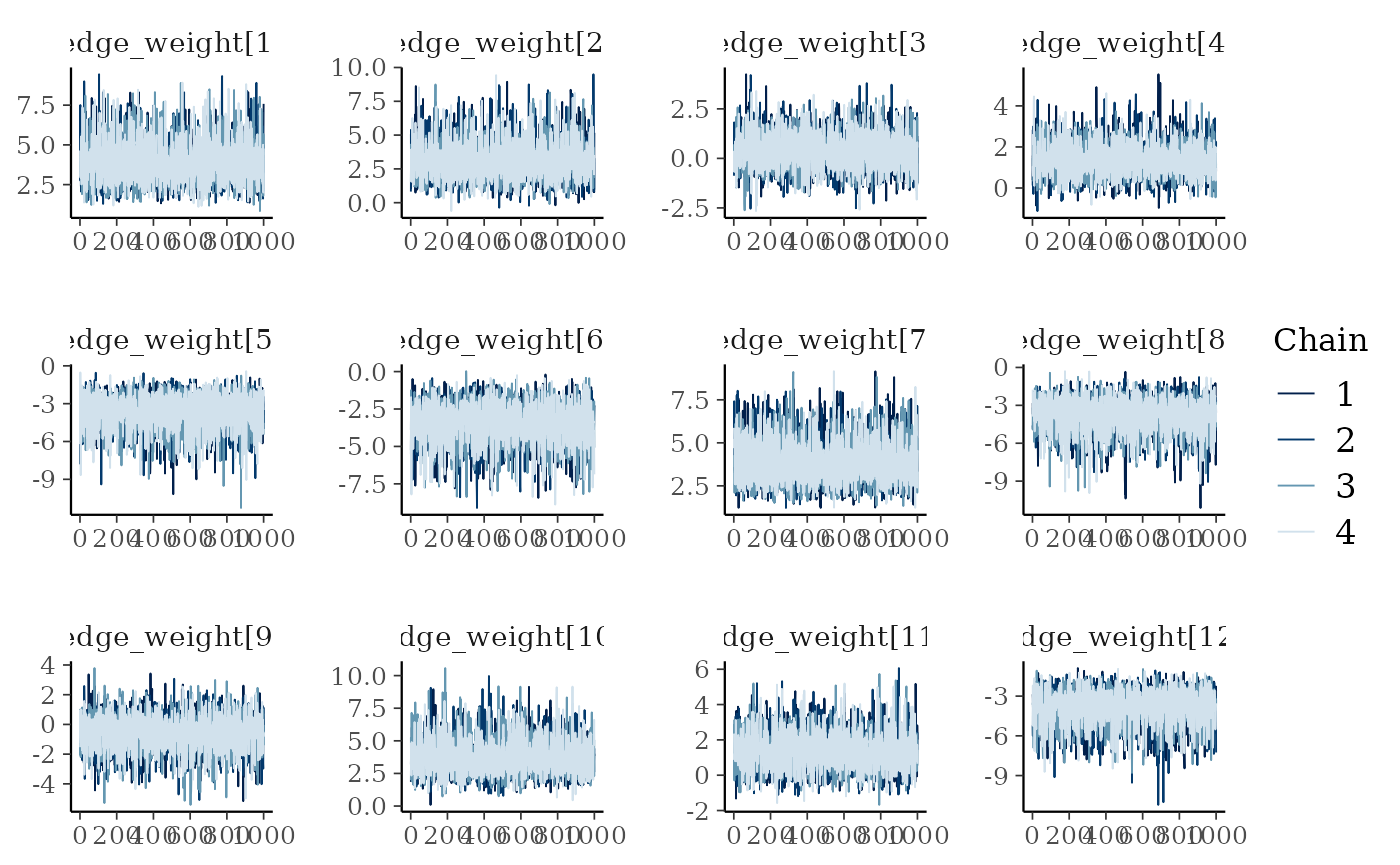
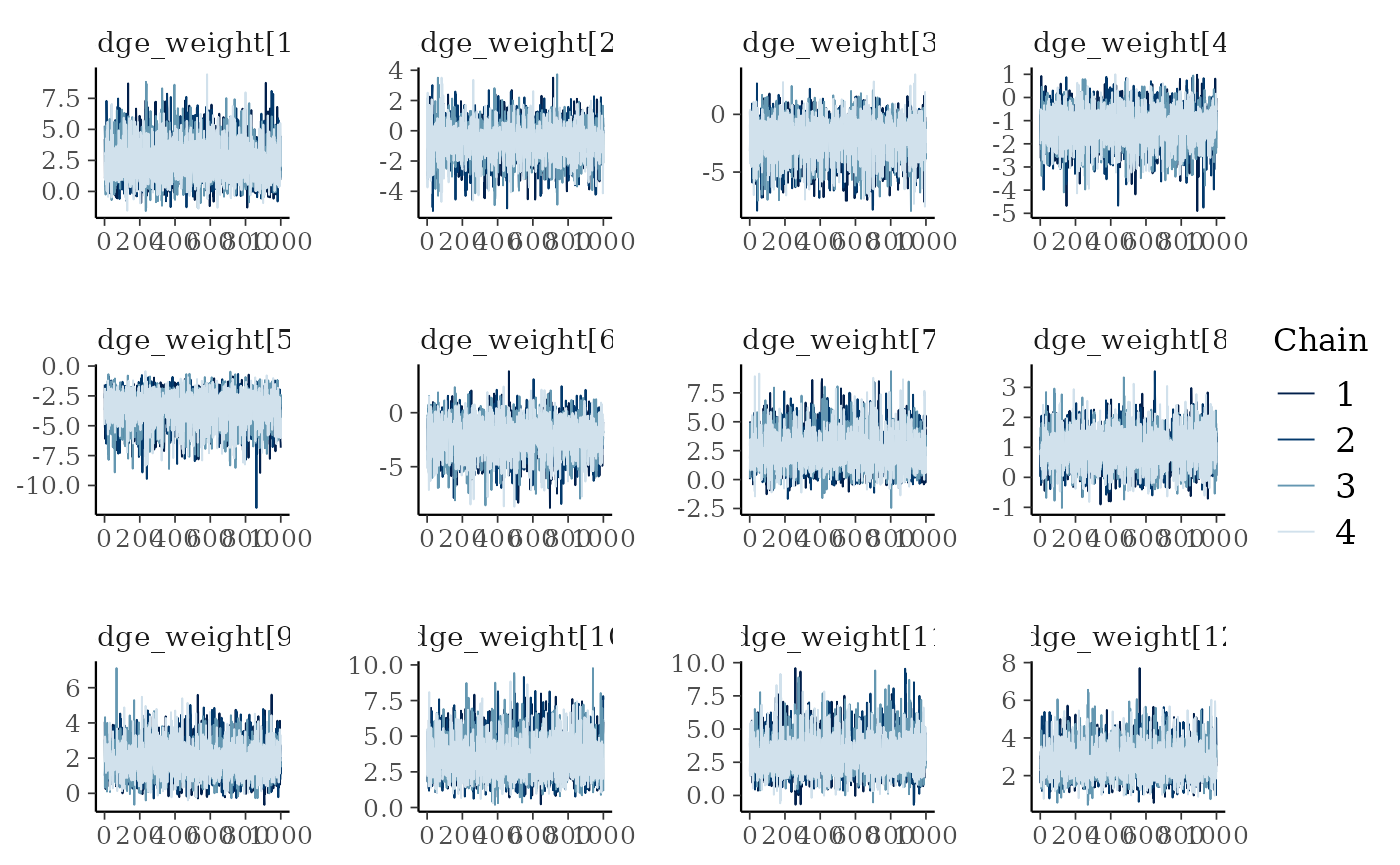
Built site for bisonR: 0.1.0@e6f2552

diff --git a/articles/getting_started.html b/articles/getting_started.html
@@ -113,13 +113,13 @@
 <code class="sourceCode R"><span class="va">sim_data</span> <span class="op">&lt;-</span> <span class="fu"><a href="../reference/simulate_edge_model.html">simulate_edge_model</a></span><span class="op">(</span><span class="st">"binary"</span>, aggregated <span class="op">=</span> <span class="cn">FALSE</span><span class="op">)</span>
 <span class="va">df</span> <span class="op">&lt;-</span> <span class="va">sim_data</span><span class="op">$</span><span class="va">df_sim</span>
 <span class="fu"><a href="https://rdrr.io/r/utils/head.html" class="external-link">head</a></span><span class="op">(</span><span class="va">df</span><span class="op">)</span>
-<span class="co">#&gt;   event node_1_id node_2_id age_diff    age_1    age_2 location duration</span>
-<span class="co">#&gt; 1     1         1         2 12.75199 25.92077 13.16878        5        1</span>
-<span class="co">#&gt; 2     1         1         2 12.75199 25.92077 13.16878        5        1</span>
-<span class="co">#&gt; 3     1         1         2 12.75199 25.92077 13.16878        3        1</span>
-<span class="co">#&gt; 4     1         1         2 12.75199 25.92077 13.16878        1        1</span>
-<span class="co">#&gt; 5     1         1         2 12.75199 25.92077 13.16878        4        1</span>
-<span class="co">#&gt; 6     1         1         2 12.75199 25.92077 13.16878        1        1</span></code></pre></div>
+<span class="co">#&gt;   event node_1_id node_2_id   age_diff    age_1    age_2 location duration</span>
+<span class="co">#&gt; 1     1         1         2  2.9306721 24.61434 21.68366        1        1</span>
+<span class="co">#&gt; 2     1         1         2  2.9306721 24.61434 21.68366        3        1</span>
+<span class="co">#&gt; 3     1         1         2  2.9306721 24.61434 21.68366        3        1</span>
+<span class="co">#&gt; 4     0         1         3 -0.1692581 24.61434 24.78359        3        1</span>
+<span class="co">#&gt; 5     0         1         3 -0.1692581 24.61434 24.78359        5        1</span>
+<span class="co">#&gt; 6     1         1         3 -0.1692581 24.61434 24.78359        3        1</span></code></pre></div>
 </div>
 <div class="section level2">
 <h2 id="edge-models">Edge Models<a class="anchor" aria-label="anchor" href="#edge-models"></a>
@@ -188,14 +188,14 @@
 <span class="co">#&gt; </span>
 <span class="co">#&gt; Running MCMC with 4 parallel chains...</span>
 <span class="co">#&gt; </span>
-<span class="co">#&gt; Chain 1 finished in 3.5 seconds.</span>
-<span class="co">#&gt; Chain 2 finished in 3.6 seconds.</span>
-<span class="co">#&gt; Chain 4 finished in 3.5 seconds.</span>
-<span class="co">#&gt; Chain 3 finished in 3.6 seconds.</span>
+<span class="co">#&gt; Chain 1 finished in 2.4 seconds.</span>
+<span class="co">#&gt; Chain 2 finished in 2.4 seconds.</span>
+<span class="co">#&gt; Chain 3 finished in 2.6 seconds.</span>
+<span class="co">#&gt; Chain 4 finished in 2.5 seconds.</span>
 <span class="co">#&gt; </span>
 <span class="co">#&gt; All 4 chains finished successfully.</span>
-<span class="co">#&gt; Mean chain execution time: 3.6 seconds.</span>
-<span class="co">#&gt; Total execution time: 3.8 seconds.</span></code></pre></div>
+<span class="co">#&gt; Mean chain execution time: 2.5 seconds.</span>
+<span class="co">#&gt; Total execution time: 2.7 seconds.</span></code></pre></div>
 <p>Depending on your dataset this can take anywhere between a few tenths of a second and several hours. In particular if you have a large dataset and no observation-level predictors, it’s probably a good idea to use the aggregated version of the model where all observations per dyad are collapsed to a single row. This will speed up model fitting considerably.</p>
 <p>Once the model has fitted, we need to check that the MCMC algorithm has behaved correctly. Usually if there’s a major problem, the <code><a href="../reference/edge_model.html">edge_model()</a></code> function itself will have triggered warning messages above. But even if everything is silent, it’s still worth checking the traceplots to check the MCMC chains have converged. The chains should be well-mixed and look something like a fuzzy caterpillar. We can check for this using the <code><a href="../reference/plot_trace.html">plot_trace()</a></code> function:</p>
 <div class="sourceCode" id="cb7"><pre class="downlit sourceCode r">
@@ -216,51 +216,51 @@
 <span class="co">#&gt; Directed: FALSE</span>
 <span class="co">#&gt; === Edge list summary ===</span>
 <span class="co">#&gt;          median    5%   95%</span>
-<span class="co">#&gt; 1 &lt;-&gt; 2   0.978 0.890 0.998</span>
-<span class="co">#&gt; 1 &lt;-&gt; 3   0.955 0.758 0.997</span>
-<span class="co">#&gt; 2 &lt;-&gt; 3   0.592 0.268 0.869</span>
-<span class="co">#&gt; 1 &lt;-&gt; 4   0.792 0.550 0.940</span>
-<span class="co">#&gt; 2 &lt;-&gt; 4   0.026 0.002 0.141</span>
-<span class="co">#&gt; 3 &lt;-&gt; 4   0.033 0.003 0.179</span>
-<span class="co">#&gt; 1 &lt;-&gt; 5   0.980 0.899 0.998</span>
-<span class="co">#&gt; 2 &lt;-&gt; 5   0.024 0.002 0.128</span>
-<span class="co">#&gt; 3 &lt;-&gt; 5   0.347 0.071 0.772</span>
-<span class="co">#&gt; 4 &lt;-&gt; 5   0.976 0.868 0.998</span>
-<span class="co">#&gt; 1 &lt;-&gt; 6   0.788 0.431 0.962</span>
-<span class="co">#&gt; 2 &lt;-&gt; 6   0.025 0.002 0.117</span>
-<span class="co">#&gt; 3 &lt;-&gt; 6   0.021 0.002 0.101</span>
-<span class="co">#&gt; 4 &lt;-&gt; 6   0.887 0.426 0.994</span>
-<span class="co">#&gt; 5 &lt;-&gt; 6   0.171 0.007 0.774</span>
-<span class="co">#&gt; 1 &lt;-&gt; 7   0.920 0.755 0.985</span>
-<span class="co">#&gt; 2 &lt;-&gt; 7   0.031 0.002 0.171</span>
-<span class="co">#&gt; 3 &lt;-&gt; 7   0.027 0.002 0.138</span>
-<span class="co">#&gt; 4 &lt;-&gt; 7   0.813 0.211 0.992</span>
-<span class="co">#&gt; 5 &lt;-&gt; 7   0.173 0.007 0.795</span>
-<span class="co">#&gt; 6 &lt;-&gt; 7   0.906 0.722 0.984</span>
-<span class="co">#&gt; 1 &lt;-&gt; 8   0.878 0.716 0.965</span>
-<span class="co">#&gt; 2 &lt;-&gt; 8   0.024 0.002 0.131</span>
-<span class="co">#&gt; 3 &lt;-&gt; 8   0.057 0.003 0.317</span>
-<span class="co">#&gt; 4 &lt;-&gt; 8   0.851 0.660 0.958</span>
-<span class="co">#&gt; 5 &lt;-&gt; 8   0.035 0.002 0.177</span>
-<span class="co">#&gt; 6 &lt;-&gt; 8   0.283 0.126 0.492</span>
-<span class="co">#&gt; 7 &lt;-&gt; 8   0.066 0.003 0.380</span>
-<span class="co">#&gt; 1 &lt;-&gt; 9   0.940 0.820 0.989</span>
-<span class="co">#&gt; 2 &lt;-&gt; 9   0.180 0.008 0.766</span>
-<span class="co">#&gt; 3 &lt;-&gt; 9   0.023 0.002 0.118</span>
-<span class="co">#&gt; 4 &lt;-&gt; 9   0.941 0.685 0.996</span>
-<span class="co">#&gt; 5 &lt;-&gt; 9   0.428 0.168 0.721</span>
-<span class="co">#&gt; 6 &lt;-&gt; 9   0.951 0.732 0.997</span>
-<span class="co">#&gt; 7 &lt;-&gt; 9   0.498 0.228 0.778</span>
-<span class="co">#&gt; 8 &lt;-&gt; 9   0.491 0.095 0.911</span>
-<span class="co">#&gt; 1 &lt;-&gt; 10  0.977 0.888 0.998</span>
-<span class="co">#&gt; 2 &lt;-&gt; 10  0.029 0.002 0.141</span>
-<span class="co">#&gt; 3 &lt;-&gt; 10  0.020 0.002 0.102</span>
-<span class="co">#&gt; 4 &lt;-&gt; 10  0.956 0.761 0.997</span>
-<span class="co">#&gt; 5 &lt;-&gt; 10  0.115 0.033 0.273</span>
-<span class="co">#&gt; 6 &lt;-&gt; 10  0.915 0.549 0.995</span>
-<span class="co">#&gt; 7 &lt;-&gt; 10  0.455 0.227 0.689</span>
-<span class="co">#&gt; 8 &lt;-&gt; 10  0.736 0.359 0.952</span>
-<span class="co">#&gt; 9 &lt;-&gt; 10  0.250 0.091 0.477</span></code></pre></div>
+<span class="co">#&gt; 1 &lt;-&gt; 2   0.918 0.550 0.996</span>
+<span class="co">#&gt; 1 &lt;-&gt; 3   0.347 0.061 0.766</span>
+<span class="co">#&gt; 2 &lt;-&gt; 3   0.111 0.005 0.592</span>
+<span class="co">#&gt; 1 &lt;-&gt; 4   0.228 0.065 0.485</span>
+<span class="co">#&gt; 2 &lt;-&gt; 4   0.029 0.002 0.158</span>
+<span class="co">#&gt; 3 &lt;-&gt; 4   0.108 0.005 0.572</span>
+<span class="co">#&gt; 1 &lt;-&gt; 5   0.919 0.546 0.996</span>
+<span class="co">#&gt; 2 &lt;-&gt; 5   0.710 0.502 0.876</span>
+<span class="co">#&gt; 3 &lt;-&gt; 5   0.863 0.618 0.975</span>
+<span class="co">#&gt; 4 &lt;-&gt; 5   0.968 0.834 0.998</span>
+<span class="co">#&gt; 1 &lt;-&gt; 6   0.956 0.760 0.997</span>
+<span class="co">#&gt; 2 &lt;-&gt; 6   0.939 0.821 0.988</span>
+<span class="co">#&gt; 3 &lt;-&gt; 6   0.969 0.841 0.998</span>
+<span class="co">#&gt; 4 &lt;-&gt; 6   0.948 0.724 0.996</span>
+<span class="co">#&gt; 5 &lt;-&gt; 6   0.966 0.821 0.997</span>
+<span class="co">#&gt; 1 &lt;-&gt; 7   0.940 0.688 0.996</span>
+<span class="co">#&gt; 2 &lt;-&gt; 7   0.955 0.765 0.997</span>
+<span class="co">#&gt; 3 &lt;-&gt; 7   0.971 0.859 0.998</span>
+<span class="co">#&gt; 4 &lt;-&gt; 7   0.975 0.859 0.998</span>
+<span class="co">#&gt; 5 &lt;-&gt; 7   0.895 0.759 0.970</span>
+<span class="co">#&gt; 6 &lt;-&gt; 7   0.179 0.007 0.784</span>
+<span class="co">#&gt; 1 &lt;-&gt; 8   0.970 0.842 0.998</span>
+<span class="co">#&gt; 2 &lt;-&gt; 8   0.382 0.190 0.604</span>
+<span class="co">#&gt; 3 &lt;-&gt; 8   0.819 0.214 0.992</span>
+<span class="co">#&gt; 4 &lt;-&gt; 8   0.452 0.281 0.632</span>
+<span class="co">#&gt; 5 &lt;-&gt; 8   0.158 0.032 0.424</span>
+<span class="co">#&gt; 6 &lt;-&gt; 8   0.022 0.002 0.110</span>
+<span class="co">#&gt; 7 &lt;-&gt; 8   0.499 0.090 0.906</span>
+<span class="co">#&gt; 1 &lt;-&gt; 9   0.971 0.838 0.998</span>
+<span class="co">#&gt; 2 &lt;-&gt; 9   0.369 0.207 0.560</span>
+<span class="co">#&gt; 3 &lt;-&gt; 9   0.954 0.761 0.997</span>
+<span class="co">#&gt; 4 &lt;-&gt; 9   0.954 0.756 0.997</span>
+<span class="co">#&gt; 5 &lt;-&gt; 9   0.613 0.388 0.811</span>
+<span class="co">#&gt; 6 &lt;-&gt; 9   0.022 0.002 0.121</span>
+<span class="co">#&gt; 7 &lt;-&gt; 9   0.618 0.343 0.847</span>
+<span class="co">#&gt; 8 &lt;-&gt; 9   0.661 0.339 0.898</span>
+<span class="co">#&gt; 1 &lt;-&gt; 10  0.971 0.855 0.998</span>
+<span class="co">#&gt; 2 &lt;-&gt; 10  0.025 0.002 0.129</span>
+<span class="co">#&gt; 3 &lt;-&gt; 10  0.785 0.582 0.922</span>
+<span class="co">#&gt; 4 &lt;-&gt; 10  0.876 0.713 0.964</span>
+<span class="co">#&gt; 5 &lt;-&gt; 10  0.082 0.004 0.455</span>
+<span class="co">#&gt; 6 &lt;-&gt; 10  0.060 0.004 0.313</span>
+<span class="co">#&gt; 7 &lt;-&gt; 10  0.137 0.025 0.391</span>
+<span class="co">#&gt; 8 &lt;-&gt; 10  0.202 0.085 0.371</span>
+<span class="co">#&gt; 9 &lt;-&gt; 10  0.889 0.428 0.994</span></code></pre></div>
 <p>It can be hard to get an intuitive idea for what’s going on looking only at a summary table, so this is where it can be useful to visualise the network too. The <code><a href="../reference/plot_network.html">plot_network()</a></code> function does this for BISoN edge weight models, where uncertainty is shown on edge weights. Uncertainty is visualised by showing the lower and upper bounds as overlapping edges in the network.</p>
 <div class="sourceCode" id="cb10"><pre class="downlit sourceCode r">
 <code class="sourceCode R"><span class="fu"><a href="../reference/plot_network.html">plot_network</a></span><span class="op">(</span><span class="va">fit_edge</span>, lwd<span class="op">=</span><span class="fl">5</span><span class="op">)</span></code></pre></div>
@@ -302,33 +302,33 @@
 <span class="co">#&gt; Chain 3 Iteration:    1 / 2000 [  0%]  (Warmup) </span>
 <span class="co">#&gt; Chain 4 Iteration:    1 / 2000 [  0%]  (Warmup) </span>
 <span class="co">#&gt; Chain 1 Iteration:  500 / 2000 [ 25%]  (Warmup) </span>
-<span class="co">#&gt; Chain 3 Iteration:  500 / 2000 [ 25%]  (Warmup) </span>
 <span class="co">#&gt; Chain 4 Iteration:  500 / 2000 [ 25%]  (Warmup) </span>
 <span class="co">#&gt; Chain 2 Iteration:  500 / 2000 [ 25%]  (Warmup) </span>
+<span class="co">#&gt; Chain 3 Iteration:  500 / 2000 [ 25%]  (Warmup) </span>
 <span class="co">#&gt; Chain 1 Iteration: 1000 / 2000 [ 50%]  (Warmup) </span>
 <span class="co">#&gt; Chain 1 Iteration: 1001 / 2000 [ 50%]  (Sampling) </span>
+<span class="co">#&gt; Chain 2 Iteration: 1000 / 2000 [ 50%]  (Warmup) </span>
+<span class="co">#&gt; Chain 2 Iteration: 1001 / 2000 [ 50%]  (Sampling) </span>
 <span class="co">#&gt; Chain 3 Iteration: 1000 / 2000 [ 50%]  (Warmup) </span>
 <span class="co">#&gt; Chain 3 Iteration: 1001 / 2000 [ 50%]  (Sampling) </span>
 <span class="co">#&gt; Chain 4 Iteration: 1000 / 2000 [ 50%]  (Warmup) </span>
 <span class="co">#&gt; Chain 4 Iteration: 1001 / 2000 [ 50%]  (Sampling) </span>
-<span class="co">#&gt; Chain 2 Iteration: 1000 / 2000 [ 50%]  (Warmup) </span>
-<span class="co">#&gt; Chain 2 Iteration: 1001 / 2000 [ 50%]  (Sampling) </span>
 <span class="co">#&gt; Chain 1 Iteration: 1500 / 2000 [ 75%]  (Sampling) </span>
+<span class="co">#&gt; Chain 2 Iteration: 1500 / 2000 [ 75%]  (Sampling) </span>
 <span class="co">#&gt; Chain 3 Iteration: 1500 / 2000 [ 75%]  (Sampling) </span>
 <span class="co">#&gt; Chain 4 Iteration: 1500 / 2000 [ 75%]  (Sampling) </span>
-<span class="co">#&gt; Chain 2 Iteration: 1500 / 2000 [ 75%]  (Sampling) </span>
 <span class="co">#&gt; Chain 1 Iteration: 2000 / 2000 [100%]  (Sampling) </span>
-<span class="co">#&gt; Chain 1 finished in 5.6 seconds.</span>
+<span class="co">#&gt; Chain 1 finished in 3.2 seconds.</span>
+<span class="co">#&gt; Chain 2 Iteration: 2000 / 2000 [100%]  (Sampling) </span>
 <span class="co">#&gt; Chain 3 Iteration: 2000 / 2000 [100%]  (Sampling) </span>
 <span class="co">#&gt; Chain 4 Iteration: 2000 / 2000 [100%]  (Sampling) </span>
-<span class="co">#&gt; Chain 3 finished in 5.6 seconds.</span>
-<span class="co">#&gt; Chain 4 finished in 5.6 seconds.</span>
-<span class="co">#&gt; Chain 2 Iteration: 2000 / 2000 [100%]  (Sampling) </span>
-<span class="co">#&gt; Chain 2 finished in 5.8 seconds.</span>
+<span class="co">#&gt; Chain 2 finished in 3.3 seconds.</span>
+<span class="co">#&gt; Chain 3 finished in 3.3 seconds.</span>
+<span class="co">#&gt; Chain 4 finished in 3.3 seconds.</span>
 <span class="co">#&gt; </span>
 <span class="co">#&gt; All 4 chains finished successfully.</span>
-<span class="co">#&gt; Mean chain execution time: 5.6 seconds.</span>
-<span class="co">#&gt; Total execution time: 5.9 seconds.</span></code></pre></div>
+<span class="co">#&gt; Mean chain execution time: 3.3 seconds.</span>
+<span class="co">#&gt; Total execution time: 3.4 seconds.</span></code></pre></div>
 <p>Like last time we want to check that our model has fit properly and makes good predictions. This can be done in exactly the same way as last time:</p>
 <div class="sourceCode" id="cb13"><pre class="downlit sourceCode r">
 <code class="sourceCode R"><span class="fu"><a href="../reference/plot_trace.html">plot_trace</a></span><span class="op">(</span><span class="va">fit_dyadic</span><span class="op">)</span></code></pre></div>
@@ -343,9 +343,9 @@
 <span class="co">#&gt; Formula: dyad(node_1_id, node_2_id) ~ age_diff</span>
 <span class="co">#&gt; Number of dyads: 45</span>
 <span class="co">#&gt; === Coefficient summary ===                </span>
-<span class="co">#&gt; variable            50%     5%   95%</span>
-<span class="co">#&gt;   intercept      -0.164 -0.455 0.114</span>
-<span class="co">#&gt;   fixed_age_diff  0.431  0.381 0.484</span></code></pre></div>
+<span class="co">#&gt; variable           50%     5%   95%</span>
+<span class="co">#&gt;   intercept      0.006 -0.336 0.359</span>
+<span class="co">#&gt;   fixed_age_diff 0.581  0.481 0.686</span></code></pre></div>
 <p>Now we’ve seen how to fit a dyadic regression, the next common type of analysis is nodal regression.</p>
 </div>
 <div class="section level2">
@@ -361,16 +361,16 @@
   <span class="fu"><a href="https://dplyr.tidyverse.org/reference/distinct.html" class="external-link">distinct</a></span><span class="op">(</span><span class="va">node_id</span>, <span class="va">age</span><span class="op">)</span>
 <span class="va">df_nodal</span>
 <span class="co">#&gt;    node_id      age</span>
-<span class="co">#&gt; 1        1 25.92077</span>
-<span class="co">#&gt; 2        2 13.16878</span>
-<span class="co">#&gt; 3        3 13.20513</span>
-<span class="co">#&gt; 4        4 24.83481</span>
-<span class="co">#&gt; 5        5 16.75855</span>
-<span class="co">#&gt; 6        6 22.25268</span>
-<span class="co">#&gt; 7        7 19.38261</span>
-<span class="co">#&gt; 8        8 22.42105</span>
-<span class="co">#&gt; 9        9 18.47393</span>
-<span class="co">#&gt; 10      10 18.91661</span></code></pre></div>
+<span class="co">#&gt; 1        1 24.61434</span>
+<span class="co">#&gt; 2        2 21.68366</span>
+<span class="co">#&gt; 3        3 24.78359</span>
+<span class="co">#&gt; 4        4 24.77812</span>
+<span class="co">#&gt; 5        5 20.81103</span>
+<span class="co">#&gt; 6        6 16.38874</span>
+<span class="co">#&gt; 7        7 19.56063</span>
+<span class="co">#&gt; 8        8 22.37197</span>
+<span class="co">#&gt; 9        9 20.88940</span>
+<span class="co">#&gt; 10      10 23.27141</span></code></pre></div>
 <p>Priors can be set in the exact same way as for the <code><a href="../reference/dyadic_regression.html">dyadic_regression()</a></code> function:</p>
 <div class="sourceCode" id="cb17"><pre class="downlit sourceCode r">
 <code class="sourceCode R"><span class="va">priors</span> <span class="op">&lt;-</span> <span class="fu"><a href="../reference/get_default_priors.html">get_default_priors</a></span><span class="op">(</span><span class="st">"nodal_regression"</span><span class="op">)</span>
@@ -398,9 +398,9 @@
 <span class="co">#&gt; Chain 4 Iteration:    1 / 2000 [  0%]  (Warmup) </span>
 <span class="co">#&gt; Chain 1 Iteration:  500 / 2000 [ 25%]  (Warmup) </span>
 <span class="co">#&gt; Chain 3 Iteration:  500 / 2000 [ 25%]  (Warmup) </span>
-<span class="co">#&gt; Chain 2 Iteration:  500 / 2000 [ 25%]  (Warmup) </span>
 <span class="co">#&gt; Chain 1 Iteration: 1000 / 2000 [ 50%]  (Warmup) </span>
 <span class="co">#&gt; Chain 1 Iteration: 1001 / 2000 [ 50%]  (Sampling) </span>
+<span class="co">#&gt; Chain 2 Iteration:  500 / 2000 [ 25%]  (Warmup) </span>
 <span class="co">#&gt; Chain 3 Iteration: 1000 / 2000 [ 50%]  (Warmup) </span>
 <span class="co">#&gt; Chain 3 Iteration: 1001 / 2000 [ 50%]  (Sampling) </span>
 <span class="co">#&gt; Chain 4 Iteration:  500 / 2000 [ 25%]  (Warmup) </span>
@@ -409,21 +409,21 @@
 <span class="co">#&gt; Chain 4 Iteration: 1000 / 2000 [ 50%]  (Warmup) </span>
 <span class="co">#&gt; Chain 4 Iteration: 1001 / 2000 [ 50%]  (Sampling) </span>
 <span class="co">#&gt; Chain 1 Iteration: 1500 / 2000 [ 75%]  (Sampling) </span>
-<span class="co">#&gt; Chain 2 Iteration: 1500 / 2000 [ 75%]  (Sampling) </span>
 <span class="co">#&gt; Chain 3 Iteration: 1500 / 2000 [ 75%]  (Sampling) </span>
-<span class="co">#&gt; Chain 1 Iteration: 2000 / 2000 [100%]  (Sampling) </span>
+<span class="co">#&gt; Chain 2 Iteration: 1500 / 2000 [ 75%]  (Sampling) </span>
 <span class="co">#&gt; Chain 4 Iteration: 1500 / 2000 [ 75%]  (Sampling) </span>
-<span class="co">#&gt; Chain 1 finished in 1.2 seconds.</span>
-<span class="co">#&gt; Chain 4 Iteration: 2000 / 2000 [100%]  (Sampling) </span>
-<span class="co">#&gt; Chain 4 finished in 1.3 seconds.</span>
-<span class="co">#&gt; Chain 2 Iteration: 2000 / 2000 [100%]  (Sampling) </span>
+<span class="co">#&gt; Chain 1 Iteration: 2000 / 2000 [100%]  (Sampling) </span>
 <span class="co">#&gt; Chain 3 Iteration: 2000 / 2000 [100%]  (Sampling) </span>
-<span class="co">#&gt; Chain 2 finished in 1.3 seconds.</span>
-<span class="co">#&gt; Chain 3 finished in 1.3 seconds.</span>
+<span class="co">#&gt; Chain 1 finished in 1.1 seconds.</span>
+<span class="co">#&gt; Chain 2 Iteration: 2000 / 2000 [100%]  (Sampling) </span>
+<span class="co">#&gt; Chain 2 finished in 1.2 seconds.</span>
+<span class="co">#&gt; Chain 3 finished in 1.1 seconds.</span>
+<span class="co">#&gt; Chain 4 Iteration: 2000 / 2000 [100%]  (Sampling) </span>
+<span class="co">#&gt; Chain 4 finished in 1.1 seconds.</span>
 <span class="co">#&gt; </span>
 <span class="co">#&gt; All 4 chains finished successfully.</span>
-<span class="co">#&gt; Mean chain execution time: 1.3 seconds.</span>
-<span class="co">#&gt; Total execution time: 1.4 seconds.</span>
+<span class="co">#&gt; Mean chain execution time: 1.1 seconds.</span>
+<span class="co">#&gt; Total execution time: 1.3 seconds.</span>
 <span class="co">#&gt; Warning: 2 of 4000 (0.0%) transitions ended with a divergence.</span>
 <span class="co">#&gt; See https://mc-stan.org/misc/warnings for details.</span></code></pre></div>
 <p>Once the model has been fitted, we need to employ the same diagnostic checks as last time to ensure the model is reliable. This may seem a little tedious, and it won’t always go smoothly, but it’s a vital part of model fitting that is essential for reliable inferences, even in frequentist statistics.</p>
@@ -440,9 +440,9 @@
 <span class="co">#&gt; Formula: strength(node_id) ~ age</span>
 <span class="co">#&gt; Number of nodes: 10</span>
 <span class="co">#&gt; === Coefficient summary ===           </span>
-<span class="co">#&gt; variable       50%     5%    95%</span>
-<span class="co">#&gt;   intercept -4.689 -7.028 -1.731</span>
-<span class="co">#&gt;   fixed_age  0.244  0.094  0.362</span></code></pre></div>
+<span class="co">#&gt; variable       50%     5%   95%</span>
+<span class="co">#&gt;   intercept -0.386 -3.674 2.768</span>
+<span class="co">#&gt;   fixed_age  0.017 -0.127 0.167</span></code></pre></div>
 </div>
 <div class="section level2">
 <h2 id="conclusion">Conclusion<a class="anchor" aria-label="anchor" href="#conclusion"></a>
